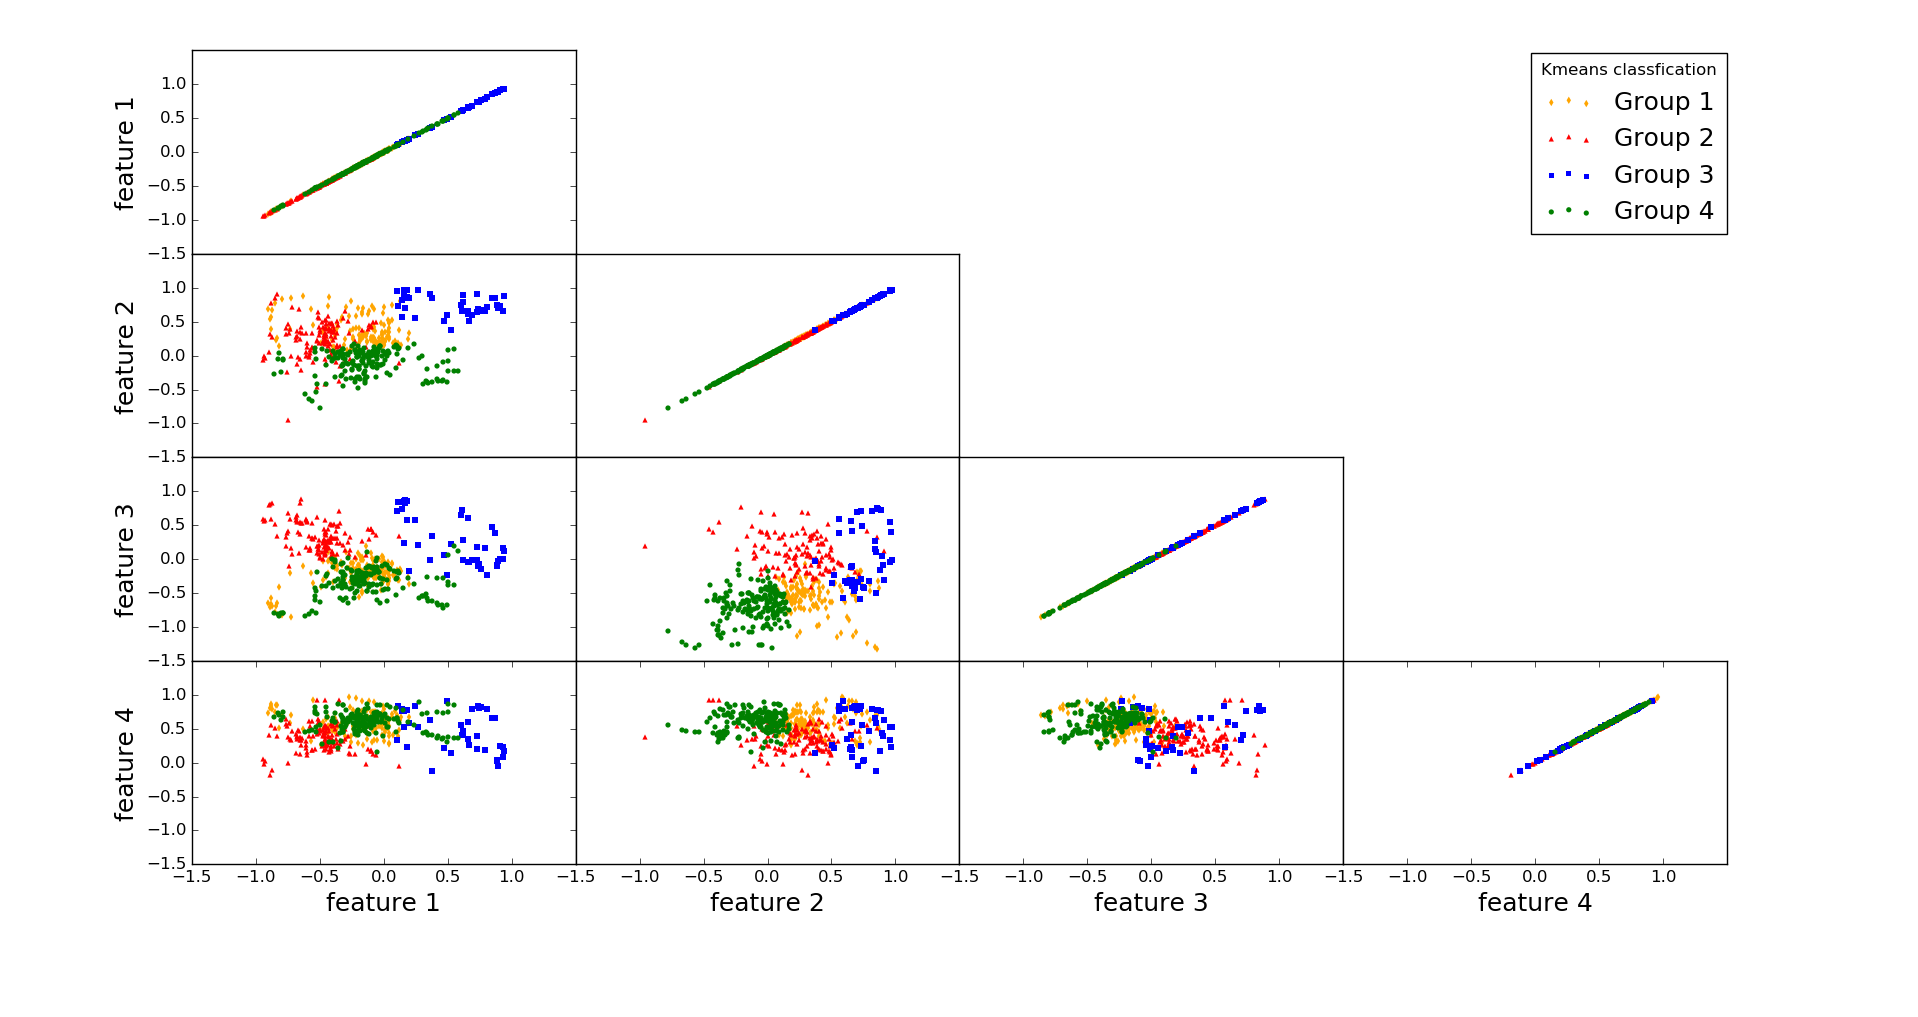
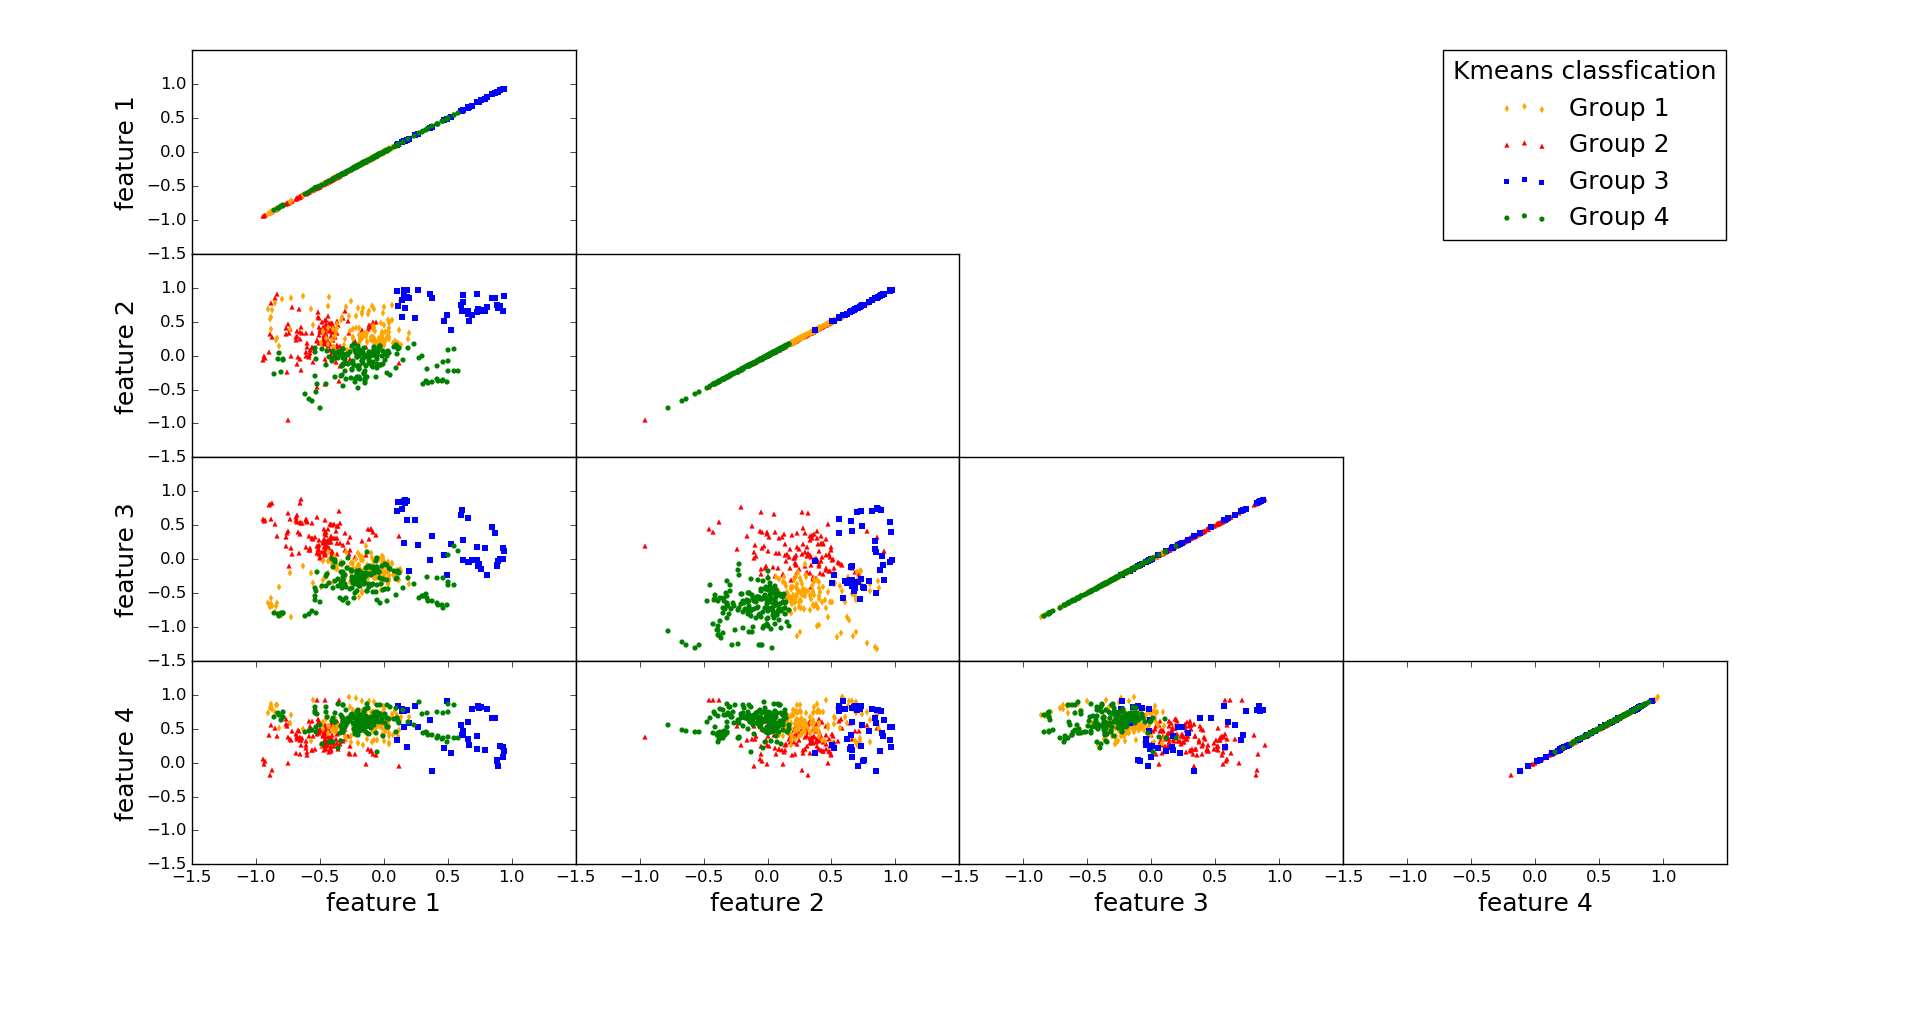
include comparative plots kmeans wang

Changed region(s): [[0.7383, 0.0305, 0.8921, 0.2439], [0.3999, 0.7011, 0.4307, 0.7316]]

diff --git a/python/emille/real_data/comparative_plot/DL_kmeans/plot_DL_wang.py b/python/emille/real_data/comparative_plot/DL_kmeans/plot_DL_wang.py
@@ -64,6 +64,27 @@ path_id = '../../../../../data_all_types/spectra_data.dat'
 # path to original spectra
 path_spectra = '../../../../../data_all_types/fluxes.dat'
 
+# path to kmeans result 4 groups
+path_kmeans_4g = '../../DL_kmeans/cl_data_all/clustering_KMeans_label_4PC_4groups.dat'
+
+# path to kmeans result 2 groups
+path_kmeans_2g = '../../DL_kmeans/cl_data_all/clustering_KMeans_label_4PC_2groups.dat'
+
+
+# read kmeans result 2 groups
+op6 = open(path_kmeans_2g, 'r')
+lin6 = op6.readlines()
+op6.close()
+
+kmeans_classes_2g = [float(elem.split()[0]) for elem in lin6]
+
+# read kmeans result 4 groups
+op5 = open(path_kmeans_4g, 'r')
+lin5 = op5.readlines()
+op5.close()
+
+kmeans_classes = [float(elem.split()[0]) for elem in lin5]
+
 
 # read original spectra
 op4 = open(path_spectra, 'r')
@@ -87,7 +108,7 @@ color_wang = load_colors(names_max)
 color_wang[2]['mark'] = ['^','o',  's', 'd', '*']
 
 
-
+# separate groups accorging to wang classification
 wang_code = []
 wang_spectra = []
 for cor in color_wang[2]['color'][:-1]:
@@ -95,11 +116,14 @@ for cor in color_wang[2]['color'][:-1]:
     wang_code.append(temp_code)
 
     spectra_temp = []
-    for j in xrange(len(color_wang[0])):
-        if color_wang[0][j] == cor:
-            spectra_temp.append(data_spectra[j])
+    cont = 0
+    for j in xrange(len(data_spectra)):
+        if names_all[j][-1] == '1':
+            cont = cont + 1
+            if color_wang[0][cont - 1] == cor:
+                spectra_temp.append(data_spectra[j])
+            
     spectra_temp = np.array(spectra_temp)
-
     wang_spectra.append(spectra_temp)
 
 wang_spectra = np.array(wang_spectra)
@@ -107,6 +131,8 @@ wang_spectra = np.array(wang_spectra)
 spectra_group = []
 for j in xrange(len(wang_spectra)):
     spectra_group.append([np.mean(wang_spectra[j][:,l]) for l in xrange(len(wang_spectra[j][0]))])
+
+spectra_group = np.array(spectra_group)
 
 # plot mean spectra from wang
 plt.figure()
@@ -116,6 +142,166 @@ leg = plt.legend(title='Wang classification', fontsize=18)
 plt.setp(leg.get_title(),fontsize=18)
 plt.xlabel('wavelength', fontsize=22)
 plt.ylabel('flux (arbtrary units)', fontsize=22)
+plt.show()
+
+# separate groups according to kmeans classification 4 groups
+groups_kmeans = []
+for item in [1.0, 0.0, 2.0, 3.0]:
+    kmeans_temp = []
+    cont = 0
+    for j in xrange(len(data_spectra)):
+        if names_all[j][-1] == '1':
+            cont = cont + 1
+            if kmeans_classes[cont - 1] == item:
+                kmeans_temp.append(data_spectra[j])
+
+    groups_kmeans.append(np.array(kmeans_temp))
+
+group_kmeans = np.array(groups_kmeans)
+kmeans_rep = [np.array([np.mean(group_kmeans[ll][:,jj]) for jj in xrange(len(data_spectra[0]))]) for ll in xrange(len(groups_kmeans))]
+xaxes = [4000 + 10*ll for ll in xrange(len(data_spectra[0]))]
+
+# find closest groups
+name = '91T'
+name_index = color_wang[2]['name'].index(name)
+chi2_91T = [np.sqrt(sum((kmeans_rep[kk] - spectra_group[name_index])**2))/len(xaxes) for kk in xrange(len(kmeans_rep))]
+print chi2_91T
+
+plt.figure()
+plt.plot(xaxes, spectra_group[name_index], label=name + ' - Wang', color='orange')
+plt.plot(xaxes, kmeans_rep[0], label='KMeans G' + str(0), color='purple')
+plt.plot(xaxes, spectra_group[name_index]+0.5, color='orange')
+plt.plot(xaxes, kmeans_rep[1] + 0.5, label='KMeans G' + str(1), color='brown')
+plt.plot(xaxes, spectra_group[name_index]+1.0, color='orange')
+plt.plot(xaxes, kmeans_rep[2] + 1.0, label='KMeans G' + str(2), color='black')
+plt.plot(xaxes, spectra_group[name_index]+1.5, color='orange')
+plt.plot(xaxes, kmeans_rep[2] + 1.5, label='KMeans G' + str(3), color='cyan')
+plt.legend()
+plt.show()
+
+
+name = 'HV'
+name_index = color_wang[2]['name'].index(name)
+chi2_HV = [np.sqrt(sum((kmeans_rep[kk] - spectra_group[name_index])**2))/len(xaxes) for kk in xrange(len(kmeans_rep))]
+print chi2_HV
+
+plt.figure()
+plt.plot(xaxes, spectra_group[name_index], label=name + ' - Wang', color='red')
+plt.plot(xaxes, kmeans_rep[0], label='KMeans G' + str(0), color='purple')
+plt.plot(xaxes, spectra_group[name_index]+0.5, color='red')
+plt.plot(xaxes, kmeans_rep[1] + 0.5, label='KMeans G' + str(1), color='brown')
+plt.plot(xaxes, spectra_group[name_index]+1.0, color='red')
+plt.plot(xaxes, kmeans_rep[2] + 1.0, label='KMeans G' + str(2),color='black')
+plt.plot(xaxes, spectra_group[name_index]+1.5, color='red')
+plt.plot(xaxes, kmeans_rep[2] + 1.5, label='KMeans G' + str(3),color='cyan')
+plt.legend()
+plt.show()
+
+name = '91bg'
+name_index = color_wang[2]['name'].index(name)
+chi2_91bg = [np.sqrt(sum((kmeans_rep[kk] - spectra_group[name_index])**2))/len(xaxes) for kk in xrange(len(kmeans_rep))]
+print chi2_91bg
+
+plt.figure()
+plt.plot(xaxes, spectra_group[name_index], label=name + ' - Wang', color='blue')
+plt.plot(xaxes, kmeans_rep[0], label='KMeans G' + str(0),color='purple')
+plt.plot(xaxes, spectra_group[name_index]+0.5, color='blue')
+plt.plot(xaxes, kmeans_rep[1] + 0.5, label='KMeans G' + str(1), color='brown')
+plt.plot(xaxes, spectra_group[name_index]+1.0, color='blue')
+plt.plot(xaxes, kmeans_rep[2] + 1.0, label='KMeans G' + str(2), color='black')
+plt.plot(xaxes, spectra_group[name_index]+1.5, color='blue')
+plt.plot(xaxes, kmeans_rep[2] + 1.5, label='KMeans G' + str(3), color='cyan')
+plt.legend()
+plt.show()
+
+name = 'N'
+name_index = color_wang[2]['name'].index(name)
+chi2_N = [np.sqrt(sum((kmeans_rep[kk] - spectra_group[name_index])**2))/len(xaxes) for kk in xrange(len(kmeans_rep))]
+print chi2_N
+
+plt.figure()
+plt.plot(xaxes, spectra_group[name_index], label=name + ' - Wang', color='green')
+plt.plot(xaxes, kmeans_rep[0], label='KMeans G' + str(0),color='purple')
+plt.plot(xaxes, spectra_group[name_index]+0.5, color='green')
+plt.plot(xaxes, kmeans_rep[1] + 0.5, label='KMeans G' + str(1), color='brown')
+plt.plot(xaxes, spectra_group[name_index]+1.0, color='green')
+plt.plot(xaxes, kmeans_rep[2] + 1.0, label='KMeans G' + str(2), color='black')
+plt.plot(xaxes, spectra_group[name_index]+1.5, color='green')
+plt.plot(xaxes, kmeans_rep[2] + 1.5, label='KMeans G' + str(3), color='cyan')
+plt.legend()
+plt.show()
+
+
+
+# separate groups according to kmeans classification 2 groups
+groups_kmeans_2 = []
+for item in xrange(2):
+    kmeans_temp = []
+    cont = 0
+    for j in xrange(len(data_spectra)):
+        if names_all[j][-1] == '1':
+            cont = cont + 1
+            if kmeans_classes_2g[cont - 1] == item:
+                kmeans_temp.append(data_spectra[j])
+
+    groups_kmeans_2.append(np.array(kmeans_temp))
+
+group_kmeans_2 = np.array(groups_kmeans_2)
+print group_kmeans_2.shape
+kmeans_rep_2 = [np.array([np.mean(group_kmeans_2[ll][:,jj]) for jj in xrange(len(data_spectra[0]))]) for ll in xrange(len(groups_kmeans_2))]
+
+# find closest groups
+name = '91T'
+name_index = color_wang[2]['name'].index(name)
+chi2_91T = [np.sqrt(sum((kmeans_rep_2[kk] - spectra_group[name_index])**2))/len(xaxes) for kk in xrange(len(kmeans_rep_2))]
+print chi2_91T
+
+plt.figure()
+plt.plot(xaxes, spectra_group[name_index], label=name + ' - Wang', color='orange')
+plt.plot(xaxes, kmeans_rep_2[0], label='KMeans G' + str(0), color='purple')
+plt.plot(xaxes, spectra_group[name_index]+0.5, color='orange')
+plt.plot(xaxes, kmeans_rep_2[1] + 0.5, label='KMeans G' + str(1), color='brown')
+plt.legend()
+plt.show()
+
+
+name = 'HV'
+name_index = color_wang[2]['name'].index(name)
+chi2_HV = [np.sqrt(sum((kmeans_rep_2[kk] - spectra_group[name_index])**2))/len(xaxes) for kk in xrange(len(kmeans_rep_2))]
+print chi2_HV
+
+plt.figure()
+plt.plot(xaxes, spectra_group[name_index], label=name + ' - Wang', color='red')
+plt.plot(xaxes, kmeans_rep[0], label='KMeans G' + str(0), color='purple')
+plt.plot(xaxes, spectra_group[name_index]+0.5, color='red')
+plt.plot(xaxes, kmeans_rep[1] + 0.5, label='KMeans G' + str(1), color='brown')
+plt.legend()
+plt.show()
+
+name = '91bg'
+name_index = color_wang[2]['name'].index(name)
+chi2_91bg = [np.sqrt(sum((kmeans_rep_2[kk] - spectra_group[name_index])**2))/len(xaxes) for kk in xrange(len(kmeans_rep_2))]
+print chi2_91bg
+
+plt.figure()
+plt.plot(xaxes, spectra_group[name_index], label=name + ' - Wang', color='blue')
+plt.plot(xaxes, kmeans_rep_2[0], label='KMeans G' + str(0),color='purple')
+plt.plot(xaxes, spectra_group[name_index]+0.5, color='blue')
+plt.plot(xaxes, kmeans_rep_2[1] + 0.5, label='KMeans G' + str(1), color='brown')
+plt.legend()
+plt.show()
+
+name = 'N'
+name_index = color_wang[2]['name'].index(name)
+chi2_N = [np.sqrt(sum((kmeans_rep_2[kk] - spectra_group[name_index])**2))/len(xaxes) for kk in xrange(len(kmeans_rep_2))]
+print chi2_N
+
+plt.figure()
+plt.plot(xaxes, spectra_group[name_index], label=name + ' - Wang', color='green')
+plt.plot(xaxes, kmeans_rep_2[0], label='KMeans G' + str(0),color='purple')
+plt.plot(xaxes, spectra_group[name_index]+0.5, color='green')
+plt.plot(xaxes, kmeans_rep_2[1] + 0.5, label='KMeans G' + str(1), color='brown')
+plt.legend()
 plt.show()
 
 

diff --git a/python/emille/real_data/comparative_plot/DL_kmeans/plot_DL_kmenas_results_4groups.py b/python/emille/real_data/comparative_plot/DL_kmeans/plot_DL_kmenas_results_4groups.py
@@ -19,10 +19,10 @@ path_id = '../../../../../data_all_types/spectra_data.dat'
 path_kmeans = '../../DL_kmeans/cl_data_all/clustering_KMeans_label_' + nfeatures + 'PC_' + ngroups + 'groups.dat'
 
 # color for plotting
-c = ['orange', 'red', 'blue', 'green']
+c = [ 'red','orange', 'blue', 'green']
 
 # markers for ploting
-mark = ['d', '^', 's', 'o', '*']
+mark = ['^', 'd', 's', 'o', '*']
 
 # read spectra ID
 op2 = open(path_id, 'r')
@@ -46,8 +46,8 @@ lin3 = op3.readlines()
 op3.close()
 
 classes = np.array([float(elem.split()[0]) for elem in lin3])
-group1 = classes == 1.0
-group2 = classes == 0.0
+group1 = classes == 0.0
+group2 = classes == 1.0
 group3 = classes == 2.0
 group4 = classes == 3.0
 
@@ -166,7 +166,9 @@ plt.xlim(-1.5, 1.5)
 plt.ylim(-1.5, 1.5)
 
 
+
 plt.subplots_adjust(left=0.1, right=0.9, top=0.95, bottom=0.15,hspace=0.0,wspace=0.0)
-fig.legend(panels, ['Group 1', 'Group 2', 'Group 3', 'Group 4'], loc = (0.798, 0.77), title='Kmeans classfication', fontsize=18)
+legs=fig.legend([panels[1], panels[0], panels[2], panels[3]], ['Group 1', 'Group 2', 'Group 3', 'Group 4'], loc = (0.752, 0.764), title='Kmeans classfication', fontsize=18)
+plt.setp(legs.get_title(),fontsize=18)
 plt.show()
 
